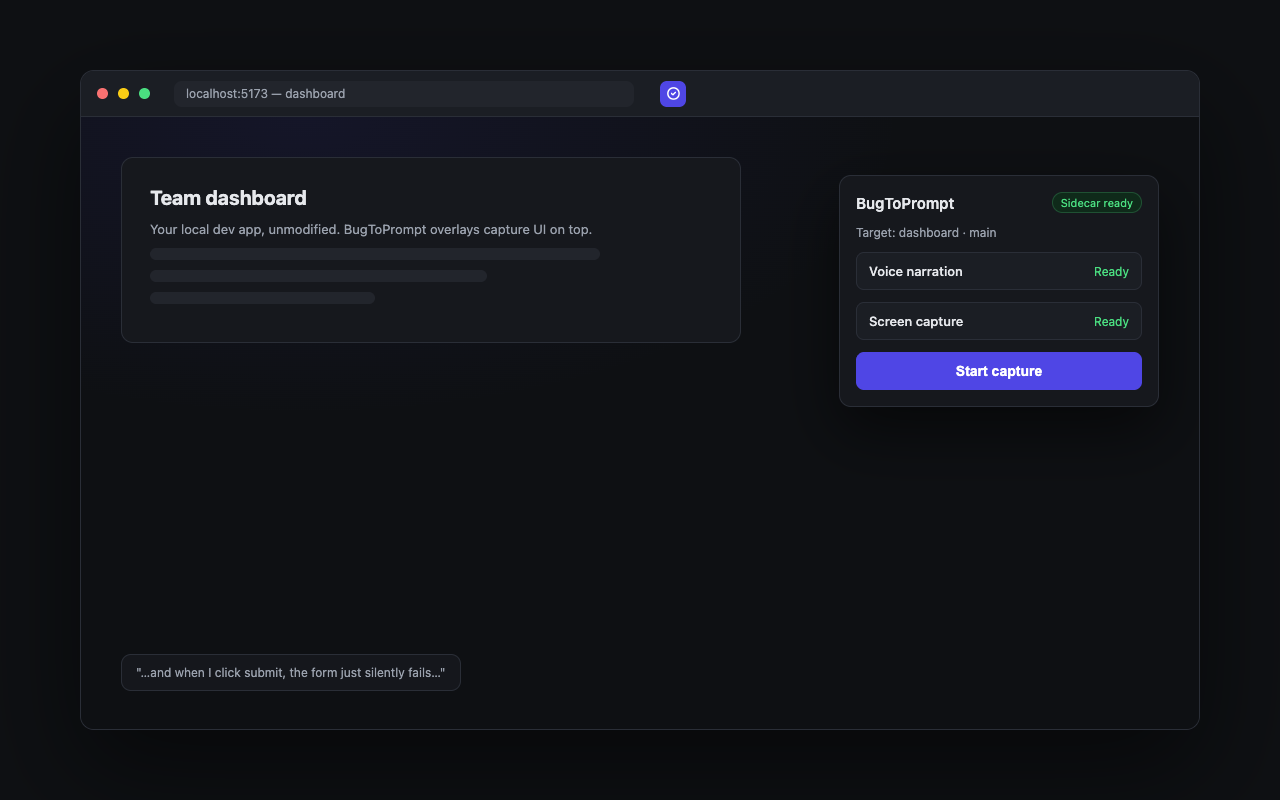
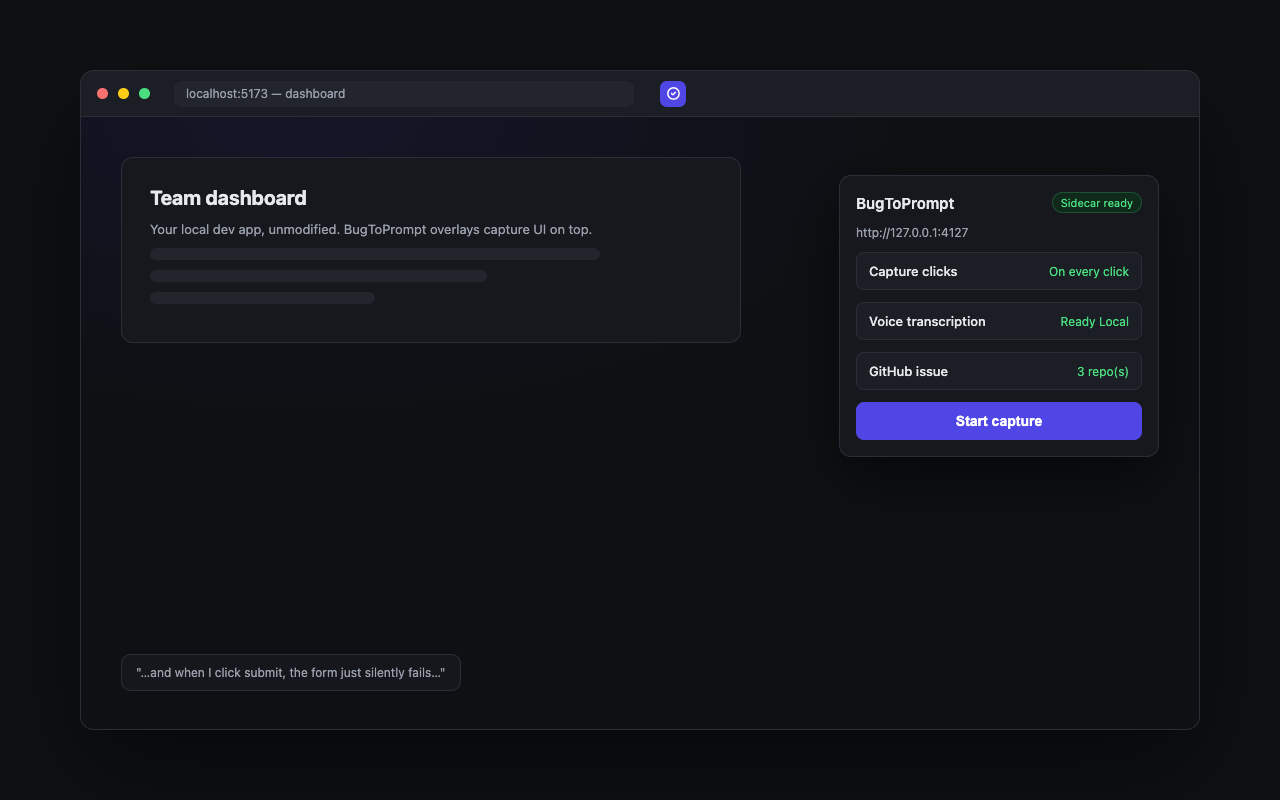
fix(extension): address cubic review findings on store listing assets
Fix all 12 findings from cubic's review of PR #114:

listing.md:
- Correct summary character count (114, not 116)
- Disclose the click-timeline screenshot is conditional on screen-capture
  mode and permission, not guaranteed per click
- Describe click screenshots as a click-centered crop or downscaled full
  frame plus interactive element metadata, not "full-page and element
  screenshots"
- Describe non-localhost capture as opt-in ("Enable on this site") in
  both the "Why it's different" bullet and the PRIVACY paragraph,
  instead of claiming the extension never activates on the public web
- Disclose the AssemblyAI cloud fallback for Lite voice transcription
  when the local parakeet-mlx engine is unavailable

CHECKLIST.md:
- Expand the Privacy practices data-usage disclosure to include
  interactive DOM snapshots and page URLs, not just screen/audio capture
- Soften "each unchecked item blocks submission" so it no longer
  contradicts the large-promo-tile item's own "(optional slot...)" note
- Cross-reference the optional_host_permissions justification bullet to
  listing.md's corrected opt-in wording

screenshot mockups (extension/store/src/*.html, re-rendered to
extension/store/assets/):
- screenshot-1-popup.html: replace hard-coded "Ready" rows and a
  repo-like target string with the real buildRows() titles/statuses and
  the real sidecar-base-URL target format from extension/src/popup.ts
- screenshot-2-capture.html: reset the Submit button's UA-default border
[…]

diff --git a/extension/store/src/screenshot-1-popup.html b/extension/store/src/screenshot-1-popup.html
@@ -135,14 +135,18 @@
             <h1>BugToPrompt</h1>
             <span class="pill">Sidecar ready</span>
           </div>
-          <p class="target">Target: dashboard · main</p>
-          <div class="row">
-            <span class="row-title">Voice narration</span>
-            <span class="row-status">Ready</span>
+          <p class="target">http://127.0.0.1:4127</p>
+          <div class="row" data-ready="true">
+            <span class="row-title">Capture clicks</span>
+            <span class="row-status">On every click</span>
           </div>
-          <div class="row">
-            <span class="row-title">Screen capture</span>
-            <span class="row-status">Ready</span>
+          <div class="row" data-ready="true">
+            <span class="row-title">Voice transcription</span>
+            <span class="row-status">Ready Local</span>
+          </div>
+          <div class="row" data-ready="true">
+            <span class="row-title">GitHub issue</span>
+            <span class="row-status">3 repo(s)</span>
           </div>
           <button type="button" class="start">Start capture</button>
         </div>

diff --git a/extension/store/src/screenshot-2-capture.html b/extension/store/src/screenshot-2-capture.html
@@ -77,7 +77,7 @@
   .input { height: 38px; border-radius: 8px; background: #1b1e24; border: 1px solid #2a2e37; }
   .btn-row { display: flex; gap: 12px; margin-top: 8px; }
   .btn { padding: 10px 20px; border-radius: 8px; font-size: 13px; font-weight: 600; }
-  .btn.primary { background: #4f46e5; color: #fff; }
+  .btn.primary { background: #4f46e5; color: #fff; border: none; }
   .btn.ghost { background: transparent; border: 1px solid #2a2e37; color: #e6e8ec; }
   .marker {
     position: absolute;
@@ -93,7 +93,7 @@
   }
   .m1 { top: 66px; left: 210px; }
   .m2 { top: 200px; left: 150px; }
-  .m3 { bottom: 30px; left: 300px; }
+  .m3 { top: 211px; left: 102px; }
   .caption-bar {
     position: absolute;
     left: 44px; bottom: 44px;

diff --git a/extension/store/src/screenshot-3-issue.html b/extension/store/src/screenshot-3-issue.html
@@ -46,7 +46,7 @@
     padding: 0 12px;
   }
   .page-body {
-    height: 614px;
+    height: 612px;
     background: #0e1013;
     padding: 36px 60px;
     overflow: hidden;

diff --git a/extension/store/listing.md b/extension/store/listing.md
@@ -16,7 +16,7 @@ BugToPrompt
 Capture a bug as a click timeline + voice narration + screenshots, rendered as an AI-ready prompt or GitHub issue.
 ```
 
-_(116 characters)_
+_(114 characters)_
 
 ## Category
 
@@ -42,17 +42,21 @@ HOW IT WORKS
 2. Hit Start capture and walk through the bug like you're narrating it
    to a coworker.
 3. BugToPrompt records:
-   - A numbered click timeline (every click gets a marker + screenshot)
+   - A numbered click timeline (a marker on every click; a screenshot too
+     when screen capture is enabled and permission is granted)
    - Live voice narration, transcribed as you talk
-   - Full-page and element screenshots at each step
+   - A click-centered screenshot (or a downscaled full frame) plus
+     interactive element metadata — role, name, selector, position — at
+     each step
 4. Stop capture. BugToPrompt renders everything into a single,
    structured prompt — paste it straight into Claude, Cursor, or Codex,
    or file it as a GitHub issue with one click.
 
 WHY IT'S DIFFERENT
 
-- Built for local dev. Runs only on http://localhost and 127.0.0.1 —
-  it does not activate on the public web.
+- Built for local dev. Activates automatically only on http://localhost
+  and 127.0.0.1 — capturing on any other site requires you to first
+  grant it access to that specific origin ("Enable on this site").
 - No copy-pasting screenshots into a doc, no rewriting your verbal
   explanation into a bug report — the transcript and timeline are
   captured directly out of your own words.
@@ -65,11 +69,14 @@ WHY IT'S DIFFERENT
 
 PRIVACY
 
-BugToPrompt only runs on localhost/127.0.0.1 pages you explicitly start
-a capture on. Screen and audio capture require your explicit browser
+BugToPrompt activates automatically only on localhost/127.0.0.1 pages;
+capturing on any other site requires you to first grant it access to
+that origin. Screen and audio capture require your explicit browser
 permission grant every time. See the privacy policy at
 https://bugtoprompt.com/privacy for full details on what is collected
-and where it is sent (Lite: stays local; Pro: sent to your
+and where it is sent (Lite: stays on-device, except voice transcription
+falls back to AssemblyAI's cloud API when the local parakeet-mlx engine
+is unavailable and an AssemblyAI key is configured; Pro: sent to your
 account on api.bugtoprompt.com).
 
 OPEN SOURCE

diff --git a/extension/store/CHECKLIST.md b/extension/store/CHECKLIST.md
@@ -2,7 +2,7 @@
 
 Source-of-truth checklist for publishing the BugToPrompt extension on the
 Chrome Web Store Developer Dashboard. Work top to bottom; each unchecked
-item blocks submission.
+item blocks submission unless explicitly marked optional.
 
 ## 1. Package the build
 
@@ -51,7 +51,10 @@ item blocks submission.
         optional `http://*/*` / `https://*/*` host permissions (see
         `extension/manifest.json`).
       - Data usage disclosure: screen capture (via `getDisplayMedia`),
-        microphone audio (via `getUserMedia`), and — for Pro users only —
+        microphone audio (via `getUserMedia`), interactive DOM snapshots
+        (element role/name/selector/bounding-box — see
+        `src/schema/index.ts` `interactiveElementSchema`), page URLs
+        (`pageUrl` plus route-change events), and — for Pro users only —
         account/session data sent to `api.bugtoprompt.com`.
 - [ ] Confirm the extension does not collect data beyond what's disclosed
       (Lite path stays fully local; verify no telemetry call was added
@@ -69,8 +72,10 @@ item blocks submission.
 - [ ] Re-read `manifest.json` permissions against actual usage — Chrome
       review flags unused or overbroad permissions. In particular, justify
       `optional_host_permissions: ["http://*/*", "https://*/*"]` (used when
-      a user opts a non-localhost target into capture) in the dashboard
-      permission-justification field, not just in code comments.
+      a user opts a non-localhost target into capture — `listing.md`'s
+      "Built for local dev" and "PRIVACY" sections already describe this
+      opt-in behavior; keep them in sync if the wording changes) in the
+      dashboard permission-justification field, not just in code comments.
 - [ ] Confirm `host_permissions` including `https://api.bugtoprompt.com/*`
       is justified as "Pro backend communication" in the same tab.
 - [ ] Double-check `SECURITY.md`'s privacy notes are consistent with what